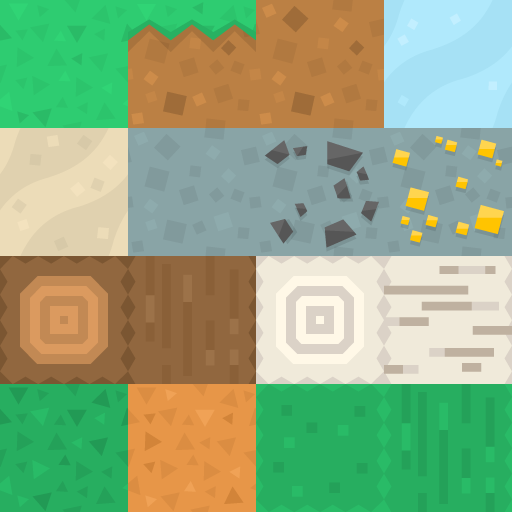
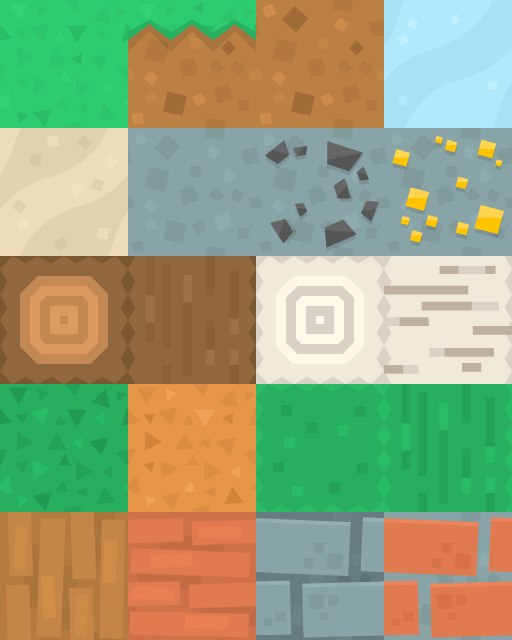
Add 4 more building block types

diff --git a/src/geometry/block.c b/src/geometry/block.c
@@ -21,7 +21,13 @@ char* BLOCK_TYPE_NAMES[BLOCK_TYPE_SIZE] = {
 
     "Green Leaves",
     "Orange Leaves",
-    "Cactus"
+    "Cactus",
+
+    "Brown Wood",
+    "Red Wood",
+
+    "Gray Bricks",
+    "Red Bricks"
 };
 
 BlockTexture BLOCK_TYPE_TEXTURE_FACES[BLOCK_TYPE_SIZE][6] = {
@@ -42,7 +48,12 @@ BlockTexture BLOCK_TYPE_TEXTURE_FACES[BLOCK_TYPE_SIZE][6] = {
 
     { BLOCK_TEXTURE_GREEN_LEAVES, BLOCK_TEXTURE_GREEN_LEAVES, BLOCK_TEXTURE_GREEN_LEAVES, BLOCK_TEXTURE_GREEN_LEAVES, BLOCK_TEXTURE_GREEN_LEAVES, BLOCK_TEXTURE_GREEN_LEAVES }, // Green Leaves
     { BLOCK_TEXTURE_ORANGE_LEAVES, BLOCK_TEXTURE_ORANGE_LEAVES, BLOCK_TEXTURE_ORANGE_LEAVES, BLOCK_TEXTURE_ORANGE_LEAVES, BLOCK_TEXTURE_ORANGE_LEAVES, BLOCK_TEXTURE_ORANGE_LEAVES }, // Orange Leaves
-    { BLOCK_TEXTURE_CACTUS_TOP, BLOCK_TEXTURE_CACTUS_SIDE, BLOCK_TEXTURE_CACTUS_SIDE, BLOCK_TEXTURE_CACTUS_SIDE, BLOCK_TEXTURE_CACTUS_SIDE, BLOCK_TEXTURE_CACTUS_TOP } // Cactus
+    { BLOCK_TEXTURE_CACTUS_TOP, BLOCK_TEXTURE_CACTUS_SIDE, BLOCK_TEXTURE_CACTUS_SIDE, BLOCK_TEXTURE_CACTUS_SIDE, BLOCK_TEXTURE_CACTUS_SIDE, BLOCK_TEXTURE_CACTUS_TOP }, // Cactus
+
+    { BLOCK_TEXTURE_BROWN_WOOD, BLOCK_TEXTURE_BROWN_WOOD, BLOCK_TEXTURE_BROWN_WOOD, BLOCK_TEXTURE_BROWN_WOOD, BLOCK_TEXTURE_BROWN_WOOD, BLOCK_TEXTURE_BROWN_WOOD }, // Brown Wood
+    { BLOCK_TEXTURE_RED_WOOD, BLOCK_TEXTURE_RED_WOOD, BLOCK_TEXTURE_RED_WOOD, BLOCK_TEXTURE_RED_WOOD, BLOCK_TEXTURE_RED_WOOD, BLOCK_TEXTURE_RED_WOOD }, // Red Wood
+    { BLOCK_TEXTURE_GRAY_BRICKS, BLOCK_TEXTURE_GRAY_BRICKS, BLOCK_TEXTURE_GRAY_BRICKS, BLOCK_TEXTURE_GRAY_BRICKS, BLOCK_TEXTURE_GRAY_BRICKS, BLOCK_TEXTURE_GRAY_BRICKS}, // Gray Bricks
+    { BLOCK_TEXTURE_RED_BRICKS, BLOCK_TEXTURE_RED_BRICKS, BLOCK_TEXTURE_RED_BRICKS, BLOCK_TEXTURE_RED_BRICKS, BLOCK_TEXTURE_RED_BRICKS, BLOCK_TEXTURE_RED_BRICKS } // Red Bricks
 };
 
 float BLOCK_VERTICES[] = {

diff --git a/include/geometry/block.h b/include/geometry/block.h
@@ -26,6 +26,11 @@ typedef enum BlockTexture {
     BLOCK_TEXTURE_CACTUS_TOP,
     BLOCK_TEXTURE_CACTUS_SIDE,
 
+    BLOCK_TEXTURE_BROWN_WOOD,
+    BLOCK_TEXTURE_RED_WOOD,
+    BLOCK_TEXTURE_GRAY_BRICKS,
+    BLOCK_TEXTURE_RED_BRICKS,
+
     BLOCK_TEXTURE_SIZE
 } BlockTexture;
 
@@ -48,6 +53,11 @@ typedef enum BlockType {
     BLOCK_TYPE_GREEN_LEAVES,
     BLOCK_TYPE_ORANGE_LEAVES,
     BLOCK_TYPE_CACTUS,
+
+    BLOCK_TYPE_BROWN_WOOD,
+    BLOCK_TYPE_RED_WOOD,
+    BLOCK_TYPE_GRAY_BRICKS,
+    BLOCK_TYPE_RED_BRICKS,
 
     BLOCK_TYPE_SIZE
 } BlockType;
